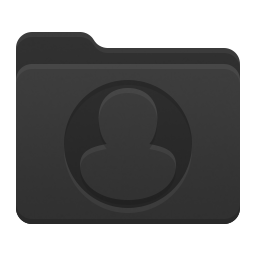
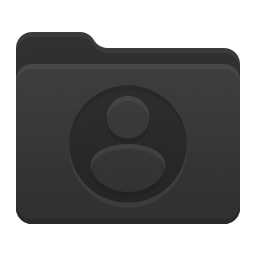
Add user_alt and users_alt

diff --git a/demo/files.js b/demo/files.js
@@ -52,8 +52,10 @@ const files = [
   'trash',
   'tv',
   'user',
+  'user_alt',
   'user_round',
   'users',
+  'users_alt',
   'video',
   'windows',
 ];

diff --git a/PNG_to_ICO.py b/PNG_to_ICO.py
@@ -42,19 +42,20 @@ def generate_icon(icon_name):
   subprocess.run(command, check=True)
   print(f'Generated {output_path.name}')
 
-def prompt_for_name(valid_names):
-  name = input('Enter the name for the file to generate (leave blank to generate them all): ').strip("'\"")
-  if not name:
+def prompt_for_names(valid_names):
+  payload = input('Enter the name for the file to generate (leave blank to generate them all): ').strip("'\"")
+  if not payload:
     return None
 
-  if name not in valid_names:
-    raise ValueError(f'Unknown file name: {name}')
-
-  return [name]
+  names = [n.strip() for n in payload.split(',') if n.strip()]
+  for name in names:
+    if name not in valid_names:
+      raise ValueError(f'Unknown file name: {name}')
+  return names
 
 def main():
   valid_names = read_file_list(FILES_JS)
-  targets = prompt_for_name(valid_names)
+  targets = prompt_for_names(valid_names)
 
   if not targets:
     targets = valid_names
